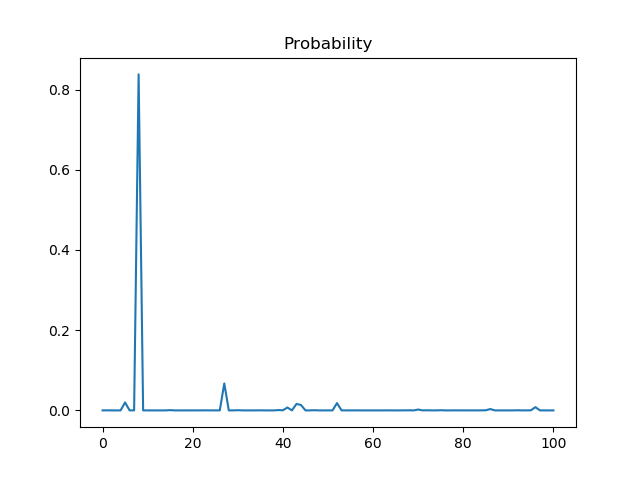
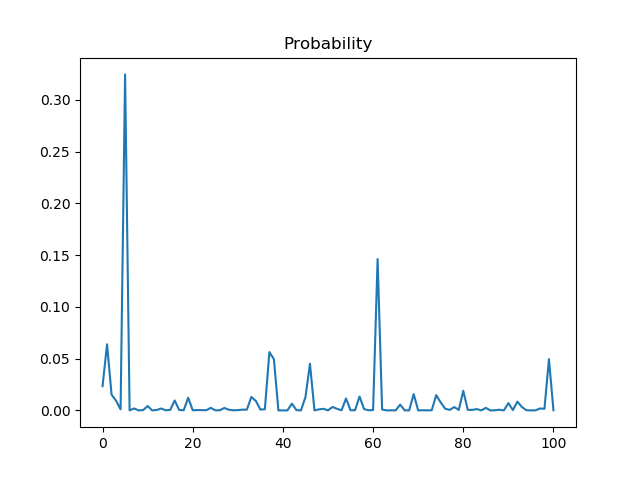
modify test model to test one network

diff --git a/test_model.py b/test_model.py
@@ -10,14 +10,17 @@ import matplotlib.pyplot as plt
 import c3d_model
 import sys
 import keras.backend as K
-from  keras.models import Model
+from keras.models import Model
+import one_network
+import random
 dim_ordering = K.image_dim_ordering()
 print("[Info] image_dim_order (from default ~/.keras/keras.json)={}".format(
-        dim_ordering))
+    dim_ordering))
 backend = dim_ordering
 
-h5model = 'sports1M_ucf_finetune_weights_tf.h5'
+h5model = 'one_network_scratch-l1-498-0.92.h5'
 jsonmodel = 'sports1M_ucf_finetune_weights_tf.json'
+
 
 def diagnose(data, verbose=True, label='input', plots=False, backend='tf'):
     # Convolution3D?
@@ -33,9 +36,9 @@ def diagnose(data, verbose=True, label='input', plots=False, backend='tf'):
         print("[Info] {}.shape={}".format(label, data.shape))
         for d in range(ndim):
             num_this_dim = data.shape[d]
-            if num_this_dim >= min_num_spatial_axes: # check for spatial axes
+            if num_this_dim >= min_num_spatial_axes:  # check for spatial axes
                 # just first, center, last indices
-                range_this_dim = [0, num_this_dim/2, num_this_dim - 1]
+                range_this_dim = [0, num_this_dim / 2, num_this_dim - 1]
             else:
                 # sweep all indices for non-spatial axes
                 range_this_dim = range(num_this_dim)
@@ -44,24 +47,22 @@ def diagnose(data, verbose=True, label='input', plots=False, backend='tf'):
                 sliced = np.transpose(data, new_dim)[i, ...]
                 print("[Info] {}, dim:{} {}-th slice: "
                       "(min, max, mean, std)=({}, {}, {}, {})".format(
-                              label,
-                              d, i,
-                              np.min(sliced),
-                              np.max(sliced),
-                              np.mean(sliced),
-                              np.std(sliced)))
+                          label, d, i, np.min(sliced), np.max(sliced),
+                          np.mean(sliced), np.std(sliced)))
         if plots:
             # assume (l, h, w, c)-shaped input
             if data.ndim != 4:
-                print("[Error] data (shape={}) is not 4-dim. Check data".format(
+                print(
+                    "[Error] data (shape={}) is not 4-dim. Check data".format(
                         data.shape))
                 return
             l, h, w, c = data.shape
             if l >= min_num_spatial_axes or \
                 h < min_num_spatial_axes or \
                 w < min_num_spatial_axes:
-                print("[Error] data (shape={}) does not look like in (l,h,w,c) "
-                      "format. Do reshape/transpose.".format(data.shape))
+                print(
+                    "[Error] data (shape={}) does not look like in (l,h,w,c) "
+                    "format. Do reshape/transpose.".format(data.shape))
                 return
             nrows = int(np.ceil(np.sqrt(data.shape[0])))
             # BGR
@@ -69,9 +70,9 @@ def diagnose(data, verbose=True, label='input', plots=False, backend='tf'):
                 for i in range(l):
                     mng = plt.get_current_fig_manager()
                     mng.resize(*mng.window.maxsize())
-                    plt.subplot(nrows, nrows, i + 1) # doh, one-based!
+                    plt.subplot(nrows, nrows, i + 1)  # doh, one-based!
                     im = np.squeeze(data[i, ...]).astype(np.float32)
-                    im = im[:, :, ::-1] # BGR to RGB
+                    im = im[:, :, ::-1]  # BGR to RGB
                     # force it to range [0,1]
                     im_min, im_max = im.min(), im.max()
                     if im_max > im_min:
@@ -89,7 +90,7 @@ def diagnose(data, verbose=True, label='input', plots=False, backend='tf'):
                     for i in range(l):
                         mng = plt.get_current_fig_manager()
                         mng.resize(*mng.window.maxsize())
-                        plt.subplot(nrows, nrows, i + 1) # doh, one-based!
+                        plt.subplot(nrows, nrows, i + 1)  # doh, one-based!
                         im = np.squeeze(data[i, ...]).astype(np.float32)
                         im = im[:, :, j]
                         # force it to range [0,1]
@@ -106,14 +107,11 @@ def diagnose(data, verbose=True, label='input', plots=False, backend='tf'):
                     #plt.waitforbuttonpress()
     elif data.ndim == 1:
         print("[Info] {} (min, max, mean, std)=({}, {}, {}, {})".format(
-                      label,
-                      np.min(data),
-                      np.max(data),
-                      np.mean(data),
-                      np.std(data)))
+            label, np.min(data), np.max(data), np.mean(data), np.std(data)))
         print("[Info] data[:10]={}".format(data[:10]))
 
     return
+
 
 def main():
     show_images = False
@@ -130,18 +128,20 @@ def main():
     print("[Info] Using backend={}".format(backend))
 
     if backend == 'th':
-        model_weight_filename = os.path.join(model_dir, 'sports1M_weights_th.h5')
-        model_json_filename = os.path.join(model_dir, 'sports1M_weights_th.json')
+        model_weight_filename = os.path.join(model_dir,
+                                             'sports1M_weights_th.h5')
+        model_json_filename = os.path.join(model_dir,
+                                           'sports1M_weights_th.json')
     else:
         model_weight_filename = os.path.join(model_dir, h5model)
         model_json_filename = os.path.join(model_dir, jsonmodel)
 
     print("[Info] Reading model architecture...")
-    model = model_from_json(open(model_json_filename, 'r').read())
+    #model = model_from_json(open(model_json_filename, 'r').read())
     #model = c3d_model.get_model(backend=backend)
-
+    model = one_network.deep_model()
     # visualize model
-    model_img_filename = os.path.join(model_dir, 'c3d_model.png')
+    model_img_filename = os.path.join(model_dir, 'one_network_model.png')
     if not os.path.exists(model_img_filename):
         from keras.utils import plot_model
         plot_model(model, to_file=model_img_filename)
@@ -152,73 +152,79 @@ def main():
     model.compile(loss='mean_squared_error', optimizer='sgd')
 
     print("[Info] Loading labels...")
-    with open('sports1m/labels.txt', 'r') as f:
+    with open(
+            '/media/kmhosny/01CFE6D64EF8ED00/datasets/ucfTrainTestlist/classInd.txt',
+            'r') as f:
         labels = [line.strip() for line in f.readlines()]
     print('Total labels: {}'.format(len(labels)))
 
     print("[Info] Loading a sample video...")
-    cap = cv2.VideoCapture('dM06AMFLsrc.mp4')
+    cap = cv2.VideoCapture('test_video.mp4')
 
     vid = []
     while True:
         ret, img = cap.read()
         if not ret:
             break
-        vid.append(cv2.resize(img, (171, 128)))
+        vid.append(cv2.resize(img, (112, 112)))
     vid = np.array(vid, dtype=np.float32)
-
     #plt.imshow(vid[2000]/256)
     #plt.show()
 
     # sample 16-frame clip
     #start_frame = 100
-    start_frame = 2000
+    start_frame = 5000
     print(vid.shape)
     X = vid[start_frame:(start_frame + 16), :, :, :]
+    image_index = random.randint(0, len(vid) - 1)
+    im = vid[image_index]
     print(X.shape)
     #diagnose(X, verbose=True, label='X (16-frame clip)', plots=show_images)
 
     # subtract mean
-    mean_cube = np.load('models/train01_16_128_171_mean.npy')
-    mean_cube = np.transpose(mean_cube, (1, 2, 3, 0))
+    #mean_cube = np.load('models/train01_16_128_171_mean.npy')
+    #mean_cube = np.transpose(mean_cube, (1, 2, 3, 0))
     #diagnose(mean_cube, verbose=True, label='Mean cube', plots=show_images)
-    X -= mean_cube
+    #X -= mean_cube
     #diagnose(X, verbose=True, label='Mean-subtracted X', plots=show_images)
 
     # center crop
-    X = X[:, 8:120, 30:142, :] # (l, h, w, c)
-    print(X.shape)
+    #X = X[:, 8:120, 30:142, :]  # (l, h, w, c)
+    print('after crop ' + str(X.shape))
     #diagnose(X, verbose=True, label='Center-cropped X', plots=show_images)
 
     if backend == 'th':
-        X = np.transpose(X, (3, 0, 1, 2)) # input_shape = (3,16,112,112)
+        X = np.transpose(X, (3, 0, 1, 2))  # input_shape = (3,16,112,112)
     else:
-        pass                              # input_shape = (16,112,112,3)
+        pass  # input_shape = (16,112,112,3)
 
     # get activations for intermediate layers if needed
     inspect_layers = [
-    #    'fc6',
-    #    'fc7',
-        ]
+        #    'fc6',
+        #    'fc7',
+    ]
     for layer in inspect_layers:
-        int_model = c3d_model.get_int_model(model=model, layer=layer, backend=backend)
+        int_model = c3d_model.get_int_model(
+            model=model, layer=layer, backend=backend)
         int_output = int_model.predict_on_batch(np.array([X]))
         int_output = int_output[0, ...]
-        print("[Debug] at layer={}: output.shape={}".format(layer, int_output.shape))
-        diagnose(int_output,
-                 verbose=True,
-                 label='{} activation'.format(layer),
-                 plots=diagnose_plots,
-                 backend=backend)
+        print("[Debug] at layer={}: output.shape={}".format(
+            layer, int_output.shape))
+        diagnose(
+            int_output,
+            verbose=True,
+            label='{} activation'.format(layer),
+            plots=diagnose_plots,
+            backend=backend)
 
     # inference
     print(model.summary())
-    intermediate_layer_model = Model(inputs=model.input,
-                                     outputs=model.get_layer(name='pool5').output)
-    intermediate_output = intermediate_layer_model.predict(np.array([X]))
+    #    intermediate_layer_model = Model(
+    #        inputs=model.input, outputs=model.get_layer(name='pool5').output)
+    #    intermediate_output = intermediate_layer_model.predict(np.array([X]))
     print("before prediction", np.array([X]).shape)
-    output = model.predict_on_batch(np.array([X]))
-    print(intermediate_output.shape)
+    output = model.predict_on_batch([np.array([X]), np.array([im])])
+    #    print(intermediate_output.shape)
 
     # show results
     print('Saving class probabilitities in probabilities.png')
@@ -230,10 +236,12 @@ def main():
     print('Corresponding label: {}'.format(labels[output[0].argmax()]))
 
     # sort top five predictions from softmax output
-    top_inds = output[0].argsort()[::-1][:5]  # reverse sort and take five largest items
+    top_inds = output[0].argsort(
+    )[::-1][:5]  # reverse sort and take five largest items
     print('\nTop 5 probabilities and labels:')
     for i in top_inds:
         print('{1}: {0:.5f}'.format(output[0][i], labels[i]))
+
 
 if __name__ == '__main__':
     main()
